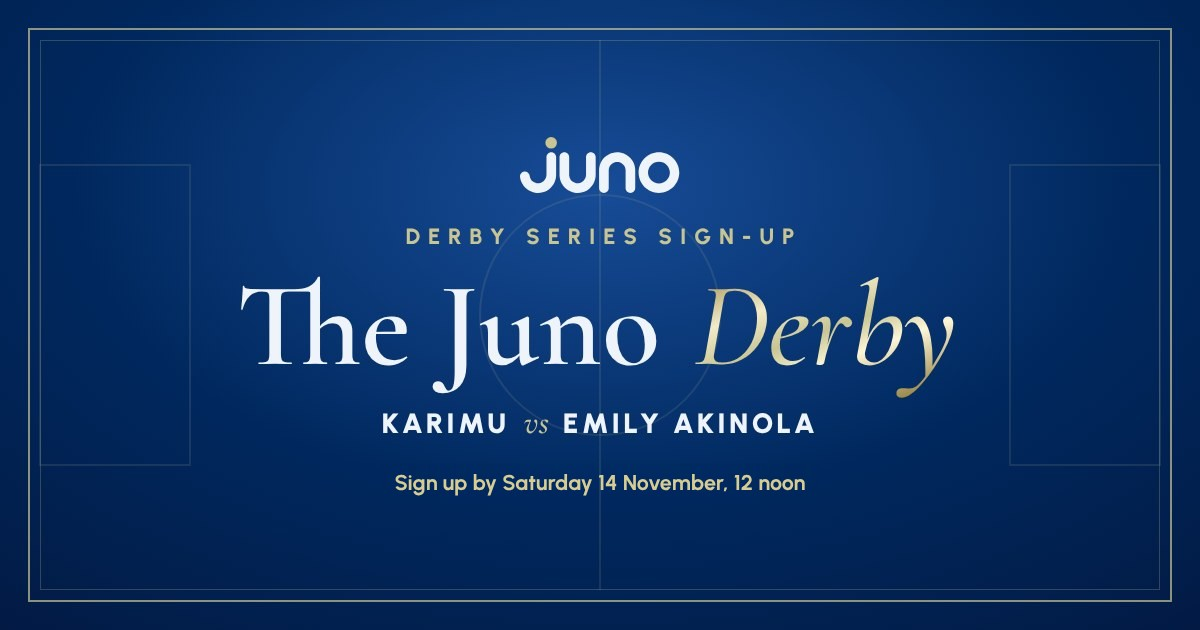
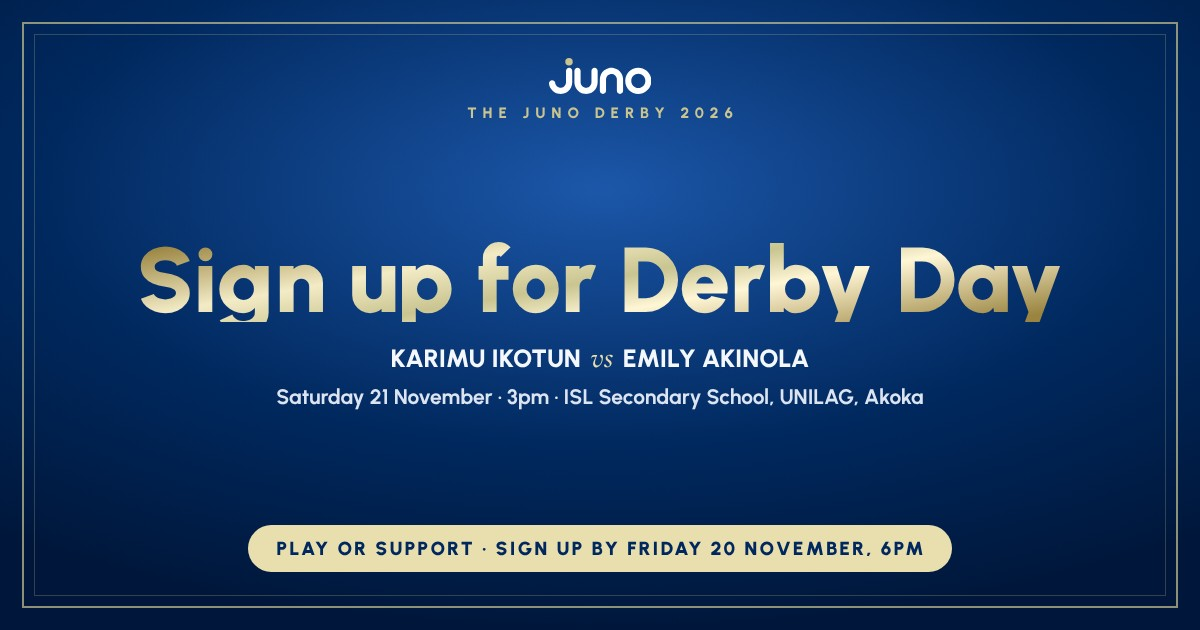
Derby sign-up: open to Fri 20 Nov 6pm for football, chess, board games and supporters; Derby Day venue and new link preview
Claude-Session: https://claude.ai/code/session_01XdH3ECsCFRj6sJaFGNUV7W

diff --git a/derby/index.html b/derby/index.html
@@ -3,13 +3,13 @@
 <head>
 <meta charset="utf-8">
 <meta name="viewport" content="width=device-width,initial-scale=1,viewport-fit=cover">
-<meta name="description" content="Sign up for the Juno Derby Series: the football squads, FC 27, table tennis, snooker, chess and board games. Karimu against Emily Akinola, Derby Day on Saturday 21 November.">
+<meta name="description" content="Sign up for the Juno Derby: the football squads, chess, board games, or come and support. Karimu against Emily Akinola, Derby Day on Saturday 21 November at ISL Secondary School, UNILAG, Akoka.">
 <meta name="theme-color" content="#00285E">
 <meta property="og:type" content="website">
 <meta property="og:title" content="Sign up for the Juno Derby">
-<meta property="og:description" content="Karimu against Emily Akinola. Sign-ups are open again until Saturday 14 November, 12 noon.">
+<meta property="og:description" content="Karimu against Emily Akinola. Sign up to play or support by Friday 20 November, 6pm. Derby Day is Saturday 21 November, 3pm at ISL Secondary School, UNILAG, Akoka.">
 <meta property="og:url" content="https://life.juno.africa/derby/">
-<meta property="og:image" content="https://life.juno.africa/derby/og.jpg?v=2">
+<meta property="og:image" content="https://life.juno.africa/derby/og.jpg?v=3">
 <meta property="og:image:width" content="1200">
 <meta property="og:image:height" content="630">
 <meta name="twitter:card" content="summary_large_image">
@@ -134,9 +134,9 @@ button[aria-pressed="true"]{background:var(--pick)!important;border-color:var(--
   </section>
 
   <dl class="event">
-    <dt>Sign up by</dt><dd>Saturday 14 November, 12 noon</dd>
-    <dt>Training</dt><dd>Saturday 14 and Sunday 15 November, 7am. Anyone can join.</dd>
-    <dt>Derby Day</dt><dd>Saturday 21 November. The football match, side games and the Juno Derby Cup.</dd>
+    <dt>Sign up by</dt><dd>Friday 20 November, 6pm</dd>
+    <dt>Chess and board games</dt><dd>Friday 20 November, 7:30pm at Karimu Ikotun. All rounds and the final.</dd>
+    <dt>Derby Day</dt><dd>Saturday 21 November, 3pm at ISL Secondary School, UNILAG, Akoka. The football match, side games and the Juno Derby Cup. Kits are handed out at the venue.</dd>
   </dl>
 
   <div class="box" id="closedNote" hidden>
@@ -149,11 +149,8 @@ button[aria-pressed="true"]{background:var(--pick)!important;border-color:var(--
       <span class="label" id="gamesLabel">What are you signing up for? <span class="opt">Pick as many as you like</span></span>
       <div class="games" role="group" aria-labelledby="gamesLabel" id="games">
         <button type="button" data-value="Football" aria-pressed="false"><strong>Football squad</strong><small>Derby Day, Saturday 21 November</small></button>
-        <button type="button" data-value="FC 27" aria-pressed="false"><strong>FC 27</strong><small>Qualifiers Saturday 14 November, final on Derby night</small></button>
-        <button type="button" data-value="Table tennis" aria-pressed="false"><strong>Table tennis</strong><small>Karimu Ikotun, from Saturday 14 November</small></button>
-        <button type="button" data-value="Snooker" aria-pressed="false"><strong>Snooker</strong><small>Emily Akinola table, from Sunday 15 November</small></button>
-        <button type="button" data-value="Chess" aria-pressed="false"><strong>Chess</strong><small>From Monday 16 November</small></button>
-        <button type="button" data-value="Board games" aria-pressed="false"><strong>Board games</strong><small>From Monday 16 November</small></button>
+        <button type="button" data-value="Chess" aria-pressed="false"><strong>Chess</strong><small>Friday 20 November, all rounds and the final</small></button>
+        <button type="button" data-value="Board games" aria-pressed="false"><strong>Board games</strong><small>Friday 20 November, all rounds and the final</small></button>
         <button type="button" data-value="Supporting" aria-pressed="false"><strong>Just supporting</strong><small>Come and cheer on Derby Day</small></button>
       </div>
     </div>
@@ -216,7 +213,7 @@ button[aria-pressed="true"]{background:var(--pick)!important;border-color:var(--
 // under the event id below; the games, football position and jersey size are in the notes column.
 const SIGNUP_URL = "https://script.google.com/macros/s/AKfycby7glLFdEq_B2WLJWjOk16iwSFwnNaf26Ho0BNxGuScizv9xANwqeOFW7qJd2aw7nDp/exec";
 const EVENT = { id: "2026-11-21-derby-sign-up", title: "Derby Series sign-up" };
-const CLOSES = Date.parse("2026-11-14T12:00:00+01:00");
+const CLOSES = Date.parse("2026-11-20T18:00:00+01:00");
 (function () {
   "use strict";
   const $ = (id) => document.getElementById(id);
